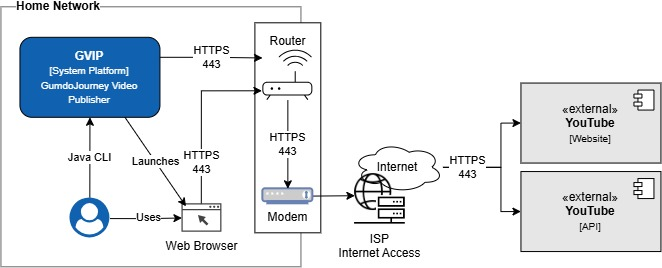
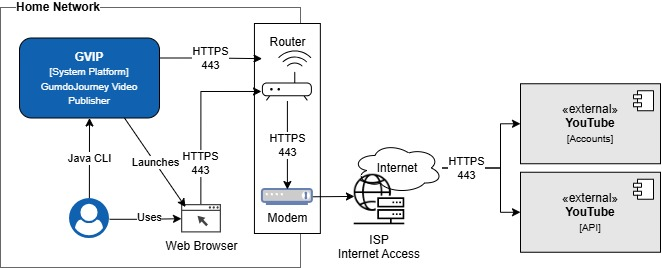
commnicate with google api and google accounts

diff --git a/docs/architecture.md b/docs/architecture.md
@@ -100,9 +100,9 @@ REFERENCE&nbsp;&nbsp;&nbsp;Enterprise Architecture Office, Software Security Pol
 | ---- | ---- | ---- | ---- | ---- | ---- |
 | Web browser | 192.168.1.5 | Router | 192.168.1.1 | 443 | HTTPS |
 | GVIP | 192.168.1.5 | Router | 192.168.1.1 | 443 | HTTPS |
-| Router | 192.168.1.1 | Modem | Layer 2 forwarding | 443 | HTTPS |
-| Modem | 71.10.191.124 | YouTube website | 443 | HTTPS |
-| Modem | 71.10.191.124 | YouTube API | 443 | HTTPS |
+| Router | 192.168.1.1 | Modem | Layer 2 forwarding | --- | --- |
+| Modem | 71.10.191.124 | accounts.google.com | 443 | HTTPS |
+| Modem | 71.10.191.124 | www.googleapis.com | 443 | HTTPS |
 
 
 ## 4\. Solution Strategy
